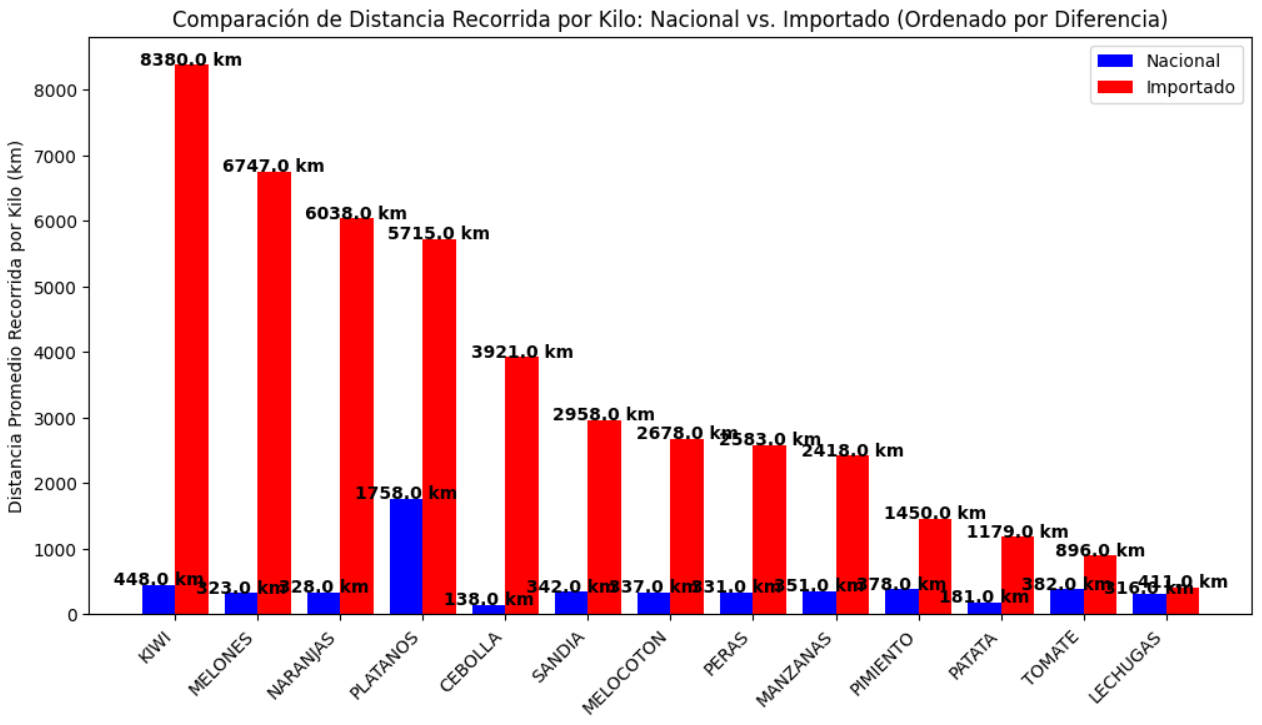
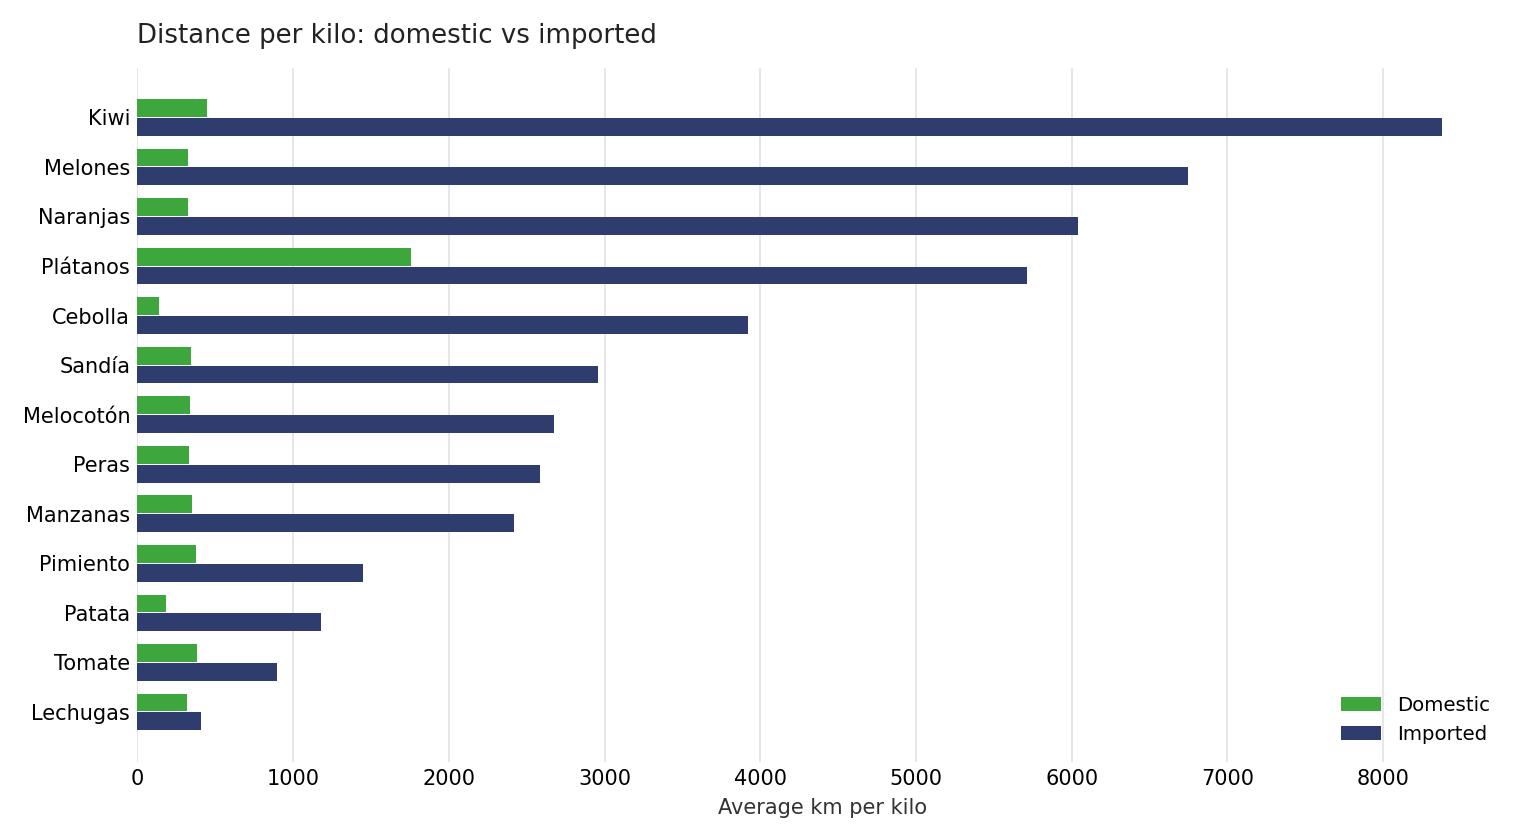
Cleaner distance chart without per-bar labels; move origin map to the general findings; fold dashboard into build section

diff --git a/README.md b/README.md
@@ -22,6 +22,10 @@ Origin and sustainability analysis of **Mercamadrid, the largest fresh food dist
 3. **Within the top selling vegetables, imports travel 11 times farther.** On average, about 4,300 km more per kilo than their domestic equivalents, a heavy and largely invisible share of the supply chain's carbon footprint.
 4. **Year-round availability has become the norm.** The deseasonalization of consumption consolidates import dependency: fresh produce is expected on the shelf every month, whatever the season.
 
+![Purchase distribution map](figures/03_dashboard_map.png)
+
+*Purchase distribution across the 101 origins, from the Power BI dashboard: green is Spain, navy the rest of the world.*
+
 ![Origin by category](figures/02_origin_by_category.png)
 
 *Fish is the most import dependent category; vegetables and meat hover around 25%.*
@@ -42,15 +46,7 @@ Origin and sustainability analysis of **Mercamadrid, the largest fresh food dist
 
 ![Distance by product](figures/08_distance_by_product.png)
 
-*Same product, two journeys: average distance per kilo for the domestic (blue) and imported (red) version of each top vegetable, sorted by the gap. Across these products, imports travel on average 11 times farther, about 4,300 km more per kilo.*
-
-## The dashboard
-
-Seven interactive Power BI pages: general overview, meat vs vegetables vs fish comparison, volume analysis and four product level deep dives that expose the seasonal import patterns.
-
-![Dashboard map](figures/03_dashboard_map.png)
-
-*Purchase distribution by origin, from the dashboard: green is Spain, navy is the rest of the world. Open [`powerbi/Mercamadrid.pbix`](powerbi/Mercamadrid.pbix) in Power BI Desktop to explore it.*
+*Same product, two journeys: average distance per kilo for the domestic (green) and imported (navy) version of each top vegetable sold with both origins, sorted by the gap. The study's aggregate result: imports travel on average 11 times farther, about 4,300 km more per kilo.*
 
 ## How it is built
 
@@ -60,7 +56,7 @@ volpre2024 (open data) -> Python: cleaning + categorization -> GeoPy geocoding +
 
 - [`notebooks/01_cleaning_transformation.ipynb`](notebooks/01_cleaning_transformation.ipynb): cleans 27,571 monthly records with pandas (type fixes, duplicated headers, price normalization) and builds the analysis categories: product groups, general typology (vegetables, meat, fish) and the domestic vs imported flag.
 - [`notebooks/02_geocoding_distances.ipynb`](notebooks/02_geocoding_distances.ipynb): geocodes the 101 origins with GeoPy (Nominatim), builds geometries with GeoPandas and computes each origin's distance to Madrid with the Haversine formula.
-- [`powerbi/Mercamadrid.pbix`](powerbi/Mercamadrid.pbix): the interactive dashboard built on the processed dataset.
+- [`powerbi/Mercamadrid.pbix`](powerbi/Mercamadrid.pbix): the interactive dashboard built on the processed dataset, seven pages covering the general overview, meat vs vegetables vs fish, volume analysis and four product deep dives. Open it in Power BI Desktop.
 - [`reports/article.pdf`](reports/article.pdf): four page write-up of the study (Spanish). [`reports/slides.pptx`](reports/slides.pptx): final presentation (Spanish).
 
 ## Repository structure